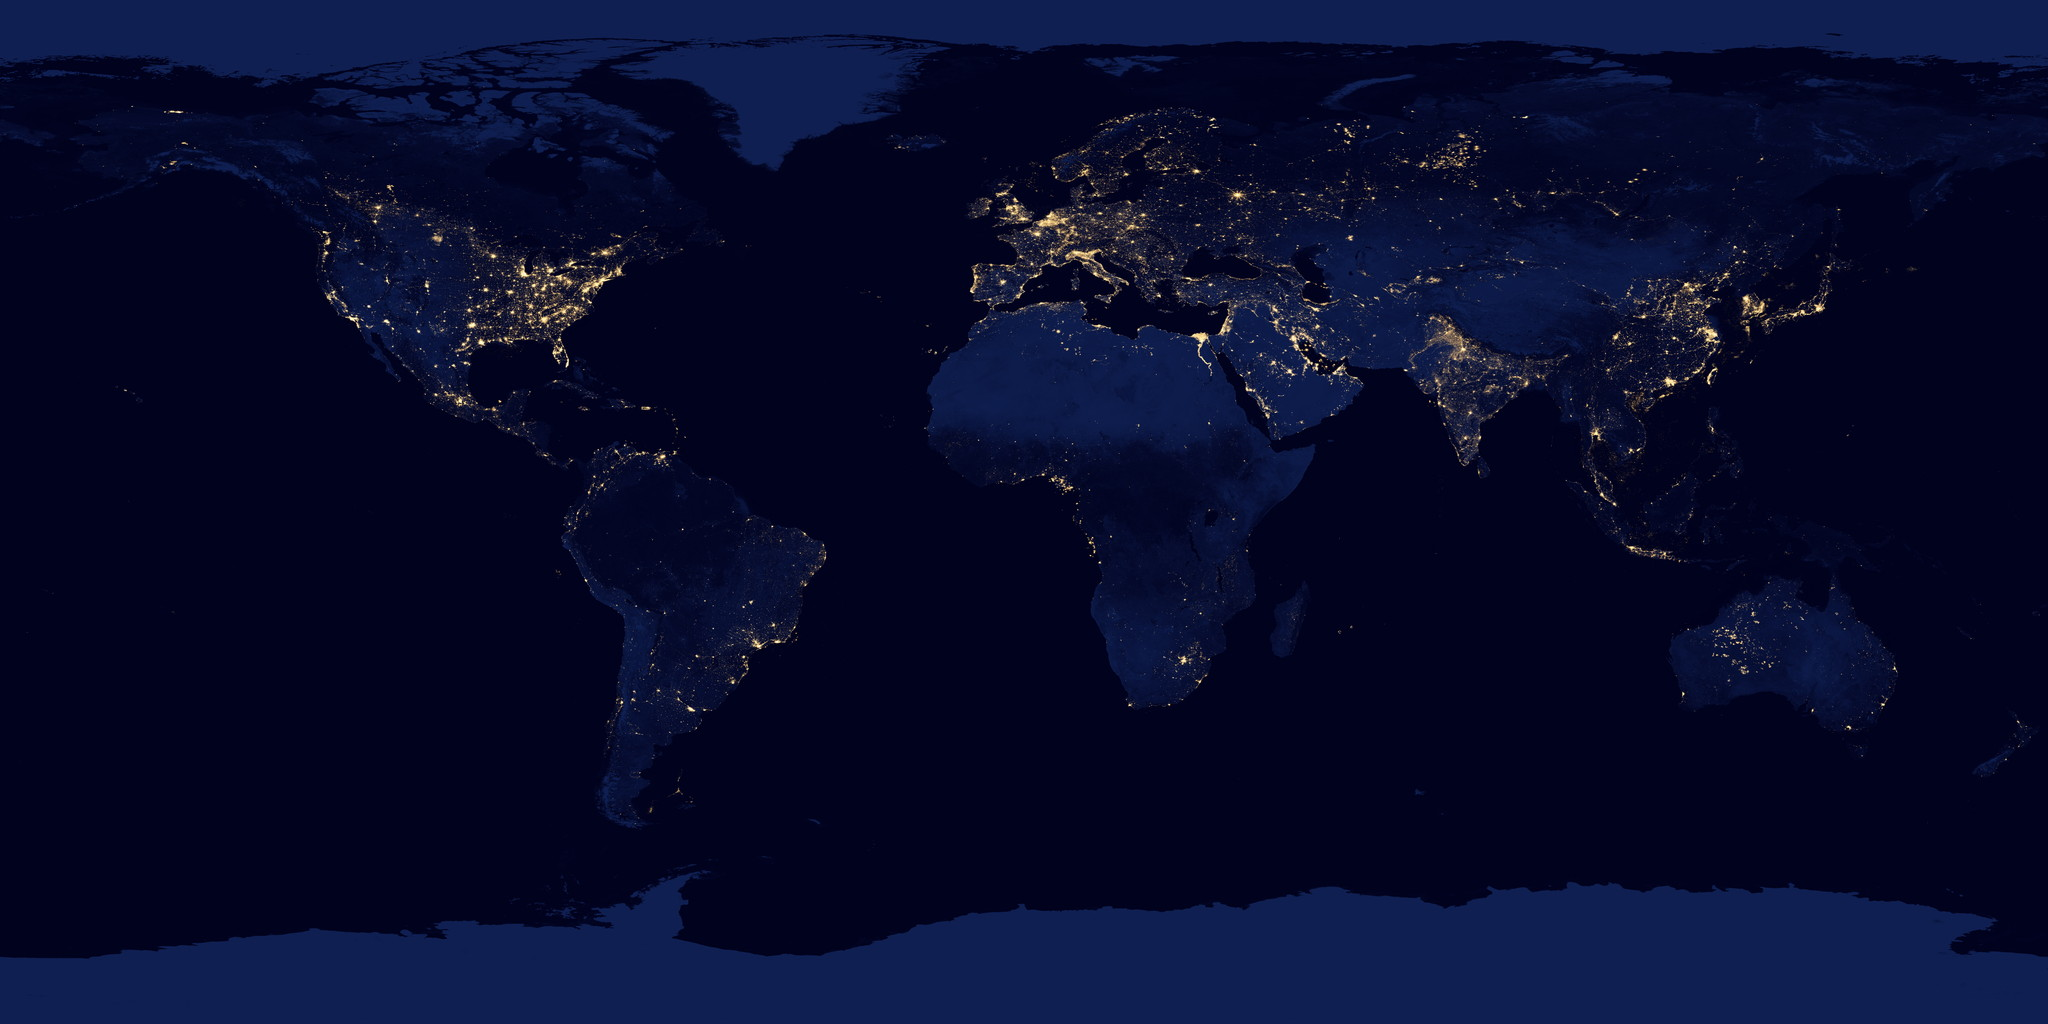
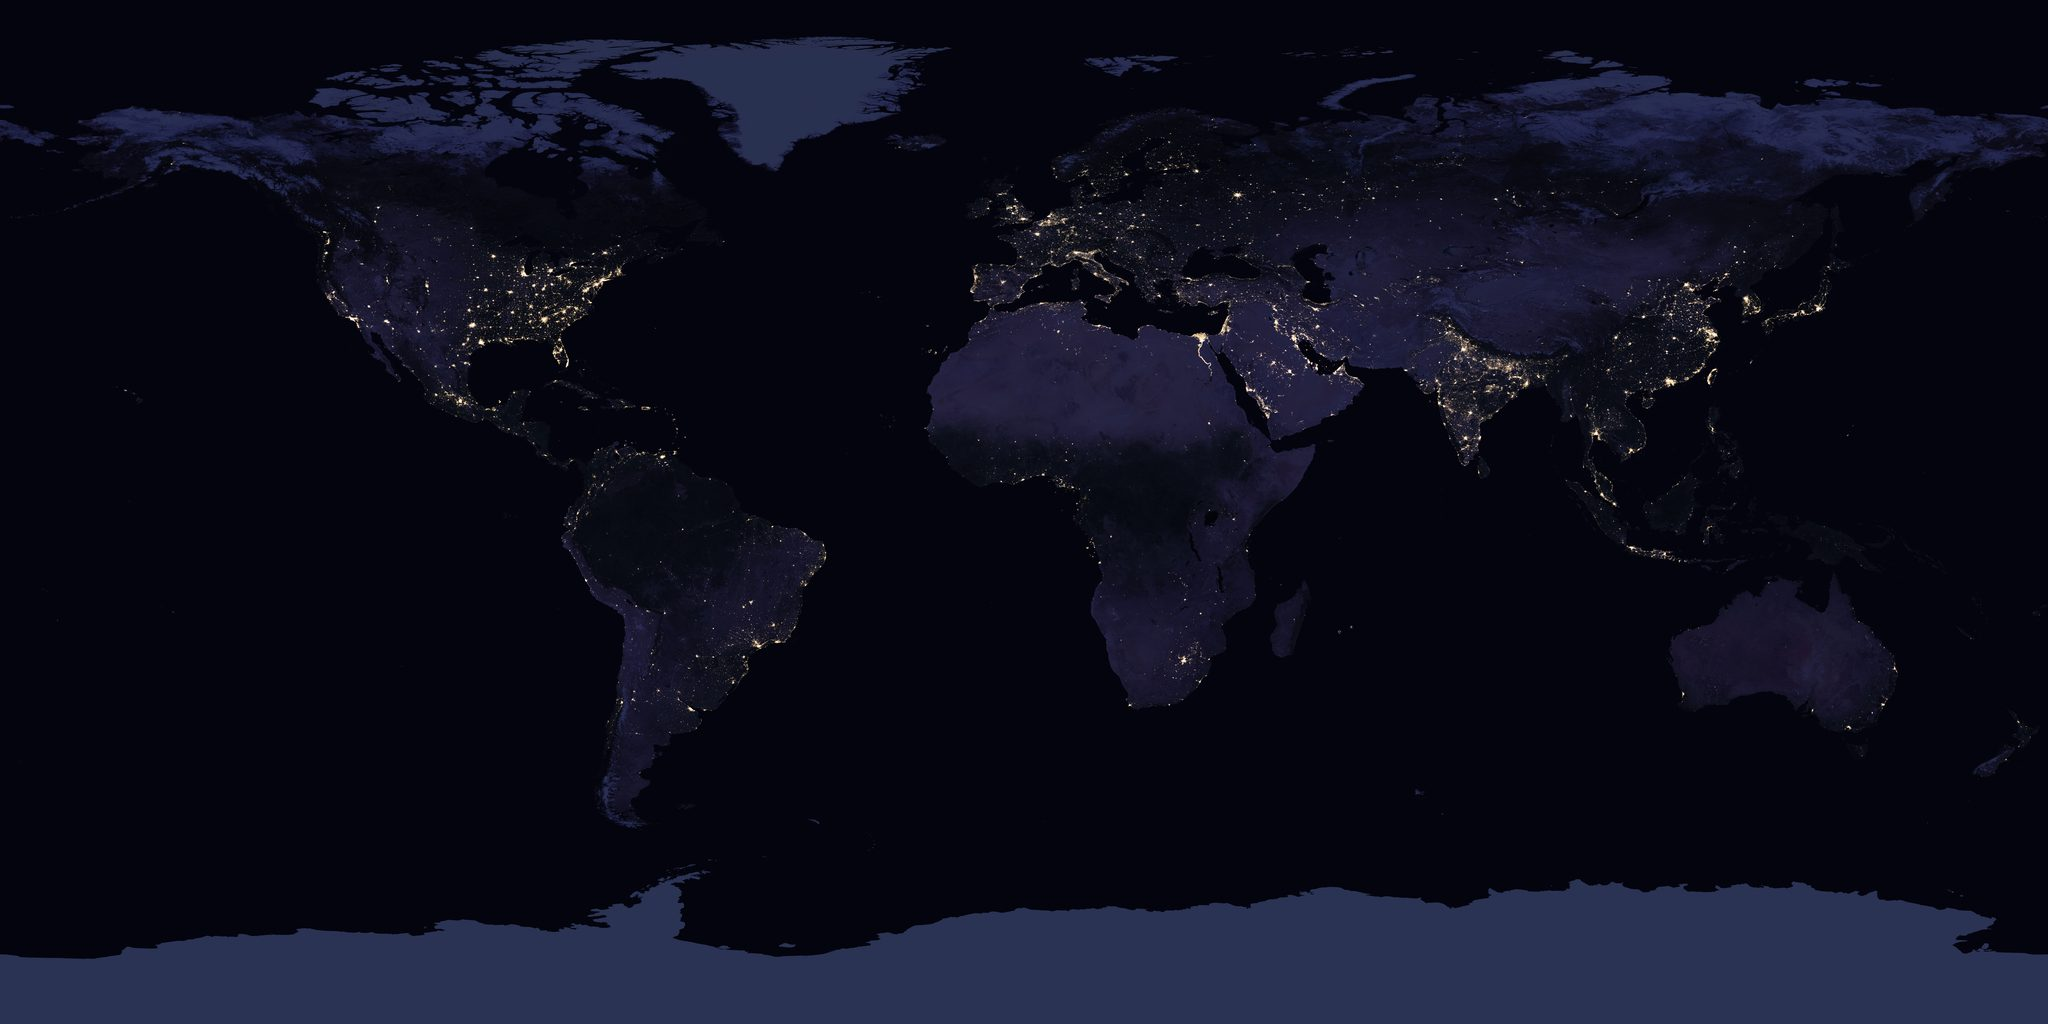
Add Black Marble night zoom tiles on the same ladder as day.
Bake 500m 2016 lights into 2k/8k wraps plus night-tiles-16/32, and load
day+night patches so close zoom stays sharp after dark.

diff --git a/index.html b/index.html
@@ -51,7 +51,7 @@
   <link rel="icon" type="image/png" href="icon-192.png?v=6" />
[1 lines of base64/hex data omitted]
   <link rel="apple-touch-icon-precomposed" sizes="180x180" href="apple-touch-icon-precomposed.png" />
-  <link rel="preload" href="earth-2k.jpg?v=e170" as="image" type="image/jpeg" />
+  <link rel="preload" href="earth-2k.jpg?v=e171" as="image" type="image/jpeg" />
   <link rel="preconnect" href="https://fonts.googleapis.com" />
   <link rel="preconnect" href="https://fonts.gstatic.com" crossorigin />
   <link href="https://fonts.googleapis.com/css2?family=Inter:wght@400;500;600;700&family=Michroma&display=swap" rel="stylesheet" />
@@ -1165,7 +1165,7 @@
 
   <header class="chrome">
     <h1 class="app-title">SuperEarth</h1>
-    <span class="build-mark" id="build-mark">e170</span>
+    <span class="build-mark" id="build-mark">e171</span>
   </header>
 
   <p class="status" id="status" data-state="loading">Loading surface…</p>
@@ -1352,7 +1352,7 @@
   <script src="astronomy.js"></script>
   <script src="https://unpkg.com/leaflet@1.9.4/dist/leaflet.js" crossorigin=""></script>
   <script type="module">
-    import { createEarthGlobe, BUILD } from "./earth.js?v=e170";
+    import { createEarthGlobe, BUILD } from "./earth.js?v=e171";
 
     const STORAGE_KEY = "earth-globe-loc-v1";
     const TIDE_STATIONS_KEY = "superearth-noaa-tide-stations-v1";

diff --git a/earth.js b/earth.js
@@ -180,7 +180,7 @@ function createStarfield() {
 }
 
 /** Cache-bust + on-screen build mark. Bump when assets or earth.js change. */
-export const BUILD = "e170";
+export const BUILD = "e171";
 const TEX_VER = BUILD;
 
 const LOD = {
@@ -199,15 +199,17 @@ const LOD = {
 };
 
 /**
- * Zoom tiles (Next Gen day @ JPEG 85). Never a full high-k wrap.
+ * Zoom tiles (Next Gen day + Black Marble night @ JPEG 85). Never a full high-k wrap.
  * Ladder by camera distance: 8k wrap → tiles-16 @≤2.5 → tiles-32 @≤1.5 → floor 1.15.
  * Each level loads a 3×3 under the screen center (plus one keep-ring while loading).
+ * Day and night tiles share the same grid; patches stay opaque so sharp night covers soft 8k.
  */
 const TILE_RING = 1;
 const TILE_LEVELS = {
   16: {
     label: "16",
     folder: "tiles-16",
+    nightFolder: "night-tiles-16",
     cols: 8,
     rows: 4,
     onDist: 2.5,
@@ -216,6 +218,7 @@ const TILE_LEVELS = {
   32: {
     label: "32",
     folder: "tiles-32",
+    nightFolder: "night-tiles-32",
     cols: 16,
     rows: 8,
     onDist: 1.5,
@@ -681,6 +684,17 @@ export function createEarthGlobe(canvas, options = {}) {
     tex.needsUpdate = true;
   }
 
+  /** Night zoom tiles: linear lights, no mips — same crisp rule as day tiles. */
+  function configureTileNight(tex) {
+    tex.colorSpace = THREE.NoColorSpace;
+    tex.flipY = true;
+    tex.anisotropy = Math.min(16, renderer.capabilities.getMaxAnisotropy());
+    tex.minFilter = THREE.LinearFilter;
+    tex.magFilter = THREE.LinearFilter;
+    tex.generateMipmaps = false;
+    tex.needsUpdate = true;
+  }
+
   function configureNormal(tex) {
     tex.colorSpace = THREE.NoColorSpace;
     tex.flipY = true;
@@ -785,7 +799,7 @@ export function createEarthGlobe(canvas, options = {}) {
         dayCol += vec3(0.03, 0.09, 0.22) * pow(rim, 3.2) * smoothstep(-0.05, 0.35, ndl) * uSunOn * 0.42;
 
         vec3 nightCol = pow(texture2D(uNight, vMapUv).rgb, vec3(2.2));
-        diffuseColor.rgb = mix(nightCol * 2.1, dayCol, day);`
+        diffuseColor.rgb = mix(nightCol * 2.45, dayCol, day);`
       );
     };
     return material;
@@ -872,10 +886,11 @@ export function createEarthGlobe(canvas, options = {}) {
         vec3 viewD = normalize(cameraPosition - vWorldPos);
         float rim = 1.0 - max(0.0, dot(nSphere, viewD));
         dayCol += vec3(0.03, 0.09, 0.22) * pow(rim, 3.2) * smoothstep(-0.05, 0.35, ndl) * uSunOn * 0.42;
-        vec3 nightCol = pow(texture2D(uNight, planetUv).rgb, vec3(2.2));
-        diffuseColor.rgb = mix(nightCol * 2.1, dayCol, day);
-        // Opaque on the day side so sharp tiles fully cover the soft 8k under them.
-        diffuseColor.a = mix(0.0, 1.0, day);`
+        // Sharp night from the matching zoom tile (same UVs as day), not the soft 8k wrap.
+        vec3 nightCol = pow(texture2D(uNight, vMapUv).rgb, vec3(2.2));
+        diffuseColor.rgb = mix(nightCol * 2.45, dayCol, day);
+        // Always opaque so day and night both cover the soft wrap underneath.
+        diffuseColor.a = 1.0;`
       );
     };
     return mat;
@@ -1768,6 +1783,8 @@ export function createEarthGlobe(canvas, options = {}) {
     if (piece.parent) piece.parent.remove(piece);
     piece.geometry.dispose();
     disposeMap(piece.material.map);
+    const nightTex = piece.material.userData?.nightUniform?.value;
+    if (nightTex) disposeMap(nightTex);
     piece.material.dispose();
   }
 
@@ -1785,7 +1802,11 @@ export function createEarthGlobe(canvas, options = {}) {
     return `${level.folder}/c${c}r${r}.jpg?v=${TEX_VER}`;
   }
 
-  function makeTilePatch(level, c, r, tex) {
+  function nightTileUrl(level, c, r) {
+    return `${level.nightFolder}/c${c}r${r}.jpg?v=${TEX_VER}`;
+  }
+
+  function makeTilePatch(level, c, r, dayTex, nightTex) {
     const phiStart = (c / level.cols) * Math.PI * 2;
     const phiLength = (1 / level.cols) * Math.PI * 2;
     const thetaStart = (r / level.rows) * Math.PI;
@@ -1799,9 +1820,10 @@ export function createEarthGlobe(canvas, options = {}) {
       thetaStart,
       thetaLength
     );
-    const nightU = material.userData.nightUniform;
+    const nightU = { value: nightTex };
     const normalU = material.userData.normalUniform;
-    const mat = makeTileMaterial(tex, nightU, normalU);
+    const mat = makeTileMaterial(dayTex, nightU, normalU);
+    mat.userData.nightUniform = nightU;
     const piece = new THREE.Mesh(geo, mat);
     piece.renderOrder = 1;
     piece.userData.tileKey = `${level.label}:${c}:${r}`;
@@ -1814,36 +1836,76 @@ export function createEarthGlobe(canvas, options = {}) {
     const parts = key.split(":");
     const c = Number(parts[1]);
     const r = Number(parts[2]);
+    let dayTex = null;
+    let nightTex = null;
+    let pending = 2;
+    let failed = false;
+
+    const abort = () => {
+      if (dayTex) {
+        dayTex.dispose();
+        dayTex = null;
+      }
+      if (nightTex) {
+        nightTex.dispose();
+        nightTex = null;
+      }
+    };
+
+    const finish = () => {
+      pending -= 1;
+      if (pending > 0) return;
+      tileLoading.delete(key);
+      if (
+        failed ||
+        disposed ||
+        !tilesEnabled ||
+        !tileGroup ||
+        !tileGroup.visible ||
+        !tileWanted.has(key) ||
+        tileLevel !== level.label ||
+        tileLive.has(key) ||
+        !dayTex ||
+        !nightTex
+      ) {
+        abort();
+        return;
+      }
+      configureTileColor(dayTex);
+      configureTileNight(nightTex);
+      releaseDecodedImage(dayTex);
+      releaseDecodedImage(nightTex);
+      ensureTileGroup();
+      const piece = makeTilePatch(level, c, r, dayTex, nightTex);
+      tileGroup.add(piece);
+      tileLive.set(key, piece);
+      reportQuality(level.label);
+      kick();
+    };
+
     loader.load(
       tileUrl(level, c, r),
       (tex) => {
-        tileLoading.delete(key);
-        if (
-          disposed ||
-          !tilesEnabled ||
-          !tileGroup ||
-          !tileGroup.visible ||
-          !tileWanted.has(key) ||
-          tileLevel !== level.label
-        ) {
-          tex.dispose();
-          return;
-        }
-        if (tileLive.has(key)) {
-          tex.dispose();
-          return;
-        }
-        configureTileColor(tex);
-        releaseDecodedImage(tex);
-        ensureTileGroup();
-        const piece = makeTilePatch(level, c, r, tex);
-        tileGroup.add(piece);
-        tileLive.set(key, piece);
-        reportQuality(level.label);
-        kick();
+        dayTex = tex;
+        finish();
       },
       undefined,
-      () => tileLoading.delete(key)
+      () => {
+        failed = true;
+        finish();
+      }
+    );
+    loader.load(
+      nightTileUrl(level, c, r),
+      (tex) => {
+        nightTex = tex;
+        finish();
+      },
+      undefined,
+      () => {
+        failed = true;
+        finish();
+      }
     );
   }
 

diff --git a/scripts/bake-night-tiles.py b/scripts/bake-night-tiles.py
@@ -1,0 +1,139 @@
+#!/usr/bin/env python3
+"""Bake SuperEarth night wraps + zoom tiles from NASA Black Marble 2016 500m.
+
+Source: eight 21600×21600 JPEG quadrants (A1–D2) → virtual 86400×43200 globe.
+Assemble at each target size by pasting one quadrant at a time (memory-safe),
+then cut the day-matching grids: night-tiles-16 (8×4), night-tiles-32 (16×8).
+"""
+
+from __future__ import annotations
+
+import argparse
+import sys
+from pathlib import Path
+
+from PIL import Image
+
+Image.MAX_IMAGE_PIXELS = None
+
+ROOT = Path(__file__).resolve().parents[1]
+SRC_DIR = ROOT / ".texture-src" / "blackmarble-2016"
+QUAD_ORDER = ("A1", "B1", "C1", "D1", "A2", "B2", "C2", "D2")
+QUAD = {
+    "A1": (0, 0),
+    "B1": (1, 0),
+    "C1": (2, 0),
+    "D1": (3, 0),
+    "A2": (0, 1),
+    "B2": (1, 1),
+    "C2": (2, 1),
+    "D2": (3, 1),
+}
+SRC_TILE = 21600
+Q = 85
+
+
+def quad_path(name: str) -> Path:
+    return SRC_DIR / f"BlackMarble_2016_{name}.jpg"
+
+
+def assemble(width: int, height: int) -> Image.Image:
+    """Build equirect at width×height from the eight 500m quads."""
+    assert width % 4 == 0 and height % 2 == 0, (width, height)
+    tw, th = width // 4, height // 2
+    canvas = Image.new("RGB", (width, height))
+    for name in QUAD_ORDER:
+        cx, ry = QUAD[name]
+        p = quad_path(name)
+        print(f"  {name} → {tw}x{th}")
+        q = Image.open(p).convert("RGB")
+        if q.size != (SRC_TILE, SRC_TILE):
+            raise ValueError(f"{p.name} expected {SRC_TILE}x{SRC_TILE}, got {q.size}")
+        piece = q.resize((tw, th), Image.Resampling.LANCZOS)
+        q.close()
+        canvas.paste(piece, (cx * tw, ry * th))
+        piece.close()
+    return canvas
+
+
+def save_jpeg(im: Image.Image, path: Path, quality: int = Q) -> None:
+    path.parent.mkdir(parents=True, exist_ok=True)
+    im.save(path, "JPEG", quality=quality, optimize=True, progressive=True)
+    mb = path.stat().st_size / 1e6
+    print(f"  wrote {path.relative_to(ROOT)}  {mb:.2f}MB  {im.size[0]}x{im.size[1]}")
+
+
+def cut_grid(im: Image.Image, cols: int, rows: int, out_dir: Path) -> None:
+    w, h = im.size
+    tw, th = w // cols, h // rows
+    if out_dir.exists():
+        for p in out_dir.glob("*.jpg"):
+            p.unlink()
+    out_dir.mkdir(parents=True, exist_ok=True)
+    total = 0
+    n = cols * rows
+    i = 0
+    for r in range(rows):
+        for c in range(cols):
+            tile = im.crop((c * tw, r * th, (c + 1) * tw, (r + 1) * th))
+            path = out_dir / f"c{c}r{r}.jpg"
+            tile.save(path, "JPEG", quality=Q, optimize=True, progressive=True)
+            total += path.stat().st_size
+            tile.close()
+            i += 1
+            print(f"  {out_dir.name} {i}/{n}", end="\r")
+    print(f"  {out_dir.name} total {total / 1e6:.1f}MB  tile {tw}x{th}          ")
+
+
+def bake_wraps() -> None:
+    print("assemble 8k wrap…")
+    im8 = assemble(8192, 4096)
+    save_jpeg(im8, ROOT / "earth-night-8k.jpg", Q)
+    im2 = im8.resize((2048, 1024), Image.Resampling.LANCZOS)
+    im8.close()
+    save_jpeg(im2, ROOT / "earth-night-2k.jpg", 82)
+    im2.close()
+
+
+def bake_tiles16() -> None:
+    print("assemble tiles-16 master (16384×8192)…")
+    mid = assemble(16384, 8192)
+    cut_grid(mid, 8, 4, ROOT / "night-tiles-16")
+    mid.close()
+
+
+def bake_tiles32() -> None:
+    print("assemble tiles-32 master (32768×16384)…")
+    close = assemble(32768, 16384)
+    cut_grid(close, 16, 8, ROOT / "night-tiles-32")
+    close.close()
+
+
+def main() -> int:
+    ap = argparse.ArgumentParser()
+    ap.add_argument("--wraps-only", action="store_true")
+    ap.add_argument("--tiles16-only", action="store_true")
+    ap.add_argument("--tiles32-only", action="store_true")
+    args = ap.parse_args()
+
+    missing = [n for n in QUAD_ORDER if not quad_path(n).is_file()]
+    if missing:
+        print("Missing source tiles:", ", ".join(missing), file=sys.stderr)
+        return 1
+
+    if args.wraps_only:
+        bake_wraps()
+    elif args.tiles16_only:
+        bake_tiles16()
+    elif args.tiles32_only:
+        bake_tiles32()
+    else:
+        bake_wraps()
+        bake_tiles16()
+        bake_tiles32()
+    print("done")
+    return 0
+
+
+if __name__ == "__main__":
+    raise SystemExit(main())
